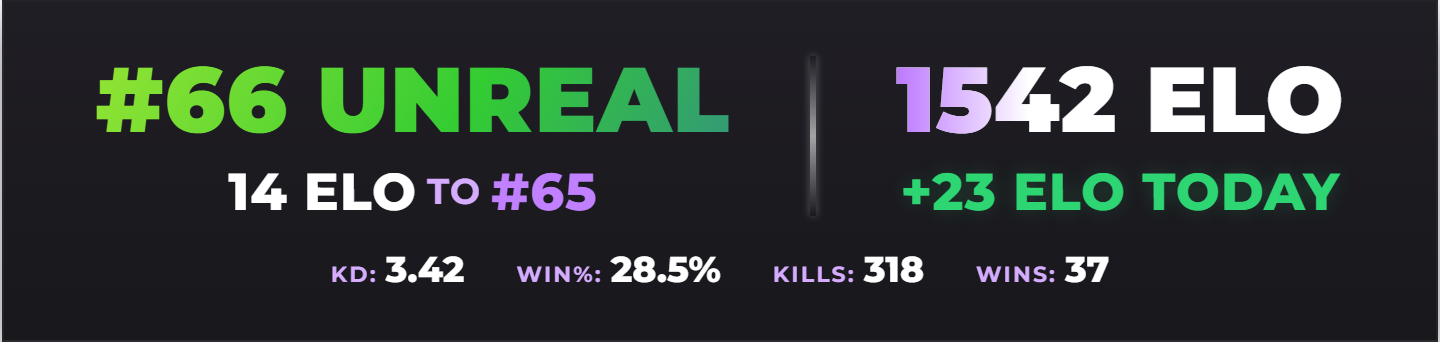
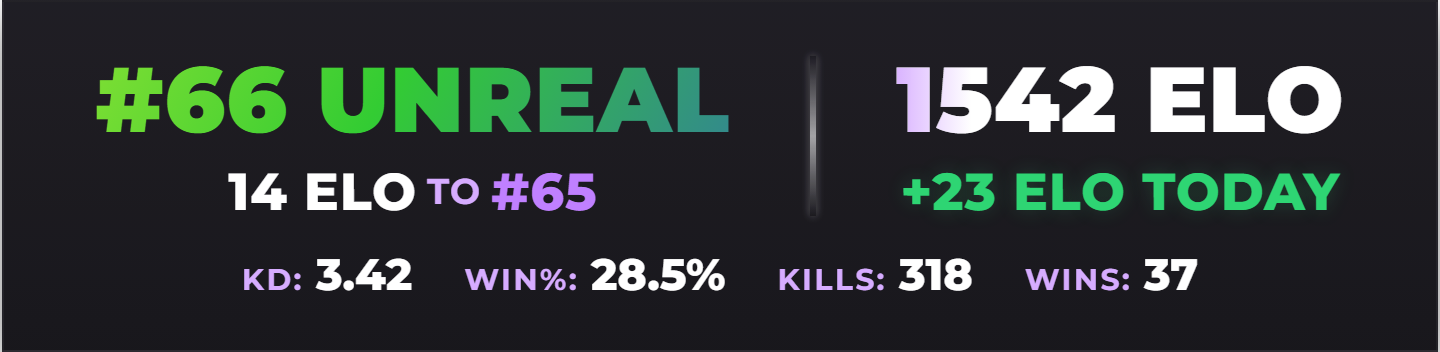
Fix Rainbow stats sizing/color, ship wizard as zip to avoid AV false positives
Rainbow's K/D, Win%, Kills, Wins were rendering far smaller than every
other text on the card; bumped to match the rest of the design's scale,
and the creator-code line is now white instead of purple so it doesn't
get mistaken for a label.

The wizard exe was being flagged by several AV engines as a generic
PyInstaller dropper/trojan, a well-known false positive caused by
--onefile mode self-extracting at runtime. Switched the build to
--onedir, which removes that runtime extraction step entirely.
Distributed as a zip instead of a single exe as a result.

diff --git a/Rainbow/server.py b/Rainbow/server.py
@@ -731,7 +731,7 @@ OVERLAY_HTML = r"""<!DOCTYPE html>
             letter-spacing: 0.5px;
             text-transform: uppercase; white-space: nowrap;
         }
-        .code-ad { color: var(--accent-light); font-style: italic; }
+        .code-ad { color: #ffffff; font-style: italic; }
 
         .stats-row {
             width: 100%;
@@ -740,13 +740,13 @@ OVERLAY_HTML = r"""<!DOCTYPE html>
             gap: 26px;
             margin-top: 12px;
         }
-        .stat { display: flex; flex-direction: row; align-items: baseline; gap: 4px; }
+        .stat { display: flex; flex-direction: row; align-items: baseline; gap: 6px; }
         .stat-label {
-            font-size: 11px; font-weight: 700; letter-spacing: 0.1em;
+            font-size: 15px; font-weight: 700; letter-spacing: 0.08em;
             text-transform: uppercase; color: var(--accent-light);
         }
         .stat-label::after { content: ":"; }
-        .stat-value { font-size: 18px; font-weight: 800; color: #ffffff; }
+        .stat-value { font-size: 22px; font-weight: 800; color: #ffffff; }
 
         .wl-wins   { color: #2ed573; text-shadow: 0 0 10px rgba(46,213,115,0.3); }
         .wl-sep    { color: #ffffff; margin: 0 2px; }

diff --git a/wizard/templates/Rainbow/server.py b/wizard/templates/Rainbow/server.py
@@ -731,7 +731,7 @@ OVERLAY_HTML = r"""<!DOCTYPE html>
             letter-spacing: 0.5px;
             text-transform: uppercase; white-space: nowrap;
         }
-        .code-ad { color: var(--accent-light); font-style: italic; }
+        .code-ad { color: #ffffff; font-style: italic; }
 
         .stats-row {
             width: 100%;
@@ -740,13 +740,13 @@ OVERLAY_HTML = r"""<!DOCTYPE html>
             gap: 26px;
             margin-top: 12px;
         }
-        .stat { display: flex; flex-direction: row; align-items: baseline; gap: 4px; }
+        .stat { display: flex; flex-direction: row; align-items: baseline; gap: 6px; }
         .stat-label {
-            font-size: 11px; font-weight: 700; letter-spacing: 0.1em;
+            font-size: 15px; font-weight: 700; letter-spacing: 0.08em;
             text-transform: uppercase; color: var(--accent-light);
         }
         .stat-label::after { content: ":"; }
-        .stat-value { font-size: 18px; font-weight: 800; color: #ffffff; }
+        .stat-value { font-size: 22px; font-weight: 800; color: #ffffff; }
 
         .wl-wins   { color: #2ed573; text-shadow: 0 0 10px rgba(46,213,115,0.3); }
         .wl-sep    { color: #ffffff; margin: 0 2px; }

diff --git a/README.md b/README.md
@@ -39,11 +39,13 @@ That's it, you're live. Full details for each step are below if you get stuck an
 
 ## 🧙 Setup wizard (the easy way)
 
-Don't want to edit any files by hand? Download **`FortniteOverlaySetup.exe`** from the [latest release](https://github.com/fwsoapy/ranked-overlay/releases/latest) instead of the manual steps above.
+Don't want to edit any files by hand? Download **`FortniteOverlaySetup.zip`** from the [latest release](https://github.com/fwsoapy/ranked-overlay/releases/latest), unzip it, and run `FortniteOverlaySetup.exe` inside the extracted folder instead of the manual steps above.
 
 It walks you through everything in a console window: picks a design from a small preview window, lets you set an accent color (by name or hex code), asks whether you want stats or a creator code shown, looks up your Epic Account ID for you automatically, then builds a ready-to-run overlay folder right next to the `.exe` and offers to start it and open it in your browser, all in one go. No editing `server.py`, no separate Account ID lookup step.
 
 > 💡 The wizard is just a convenience layer over the same 8 designs in this repo, it builds the exact same `server.py`/`start.bat`/`stop.bat` files described below. Use whichever way you prefer.
+
+> ⚠️ It ships as a zip (rather than a single `.exe`) because standalone PyInstaller executables are commonly flagged as false positives by antivirus heuristics, distributing it as an extracted folder instead of a self-extracting single file avoids that. Windows SmartScreen may still warn the first time you run it since it's an unsigned indie tool, click **More info > Run anyway**, same as the `.bat` files.
 
 ---
 